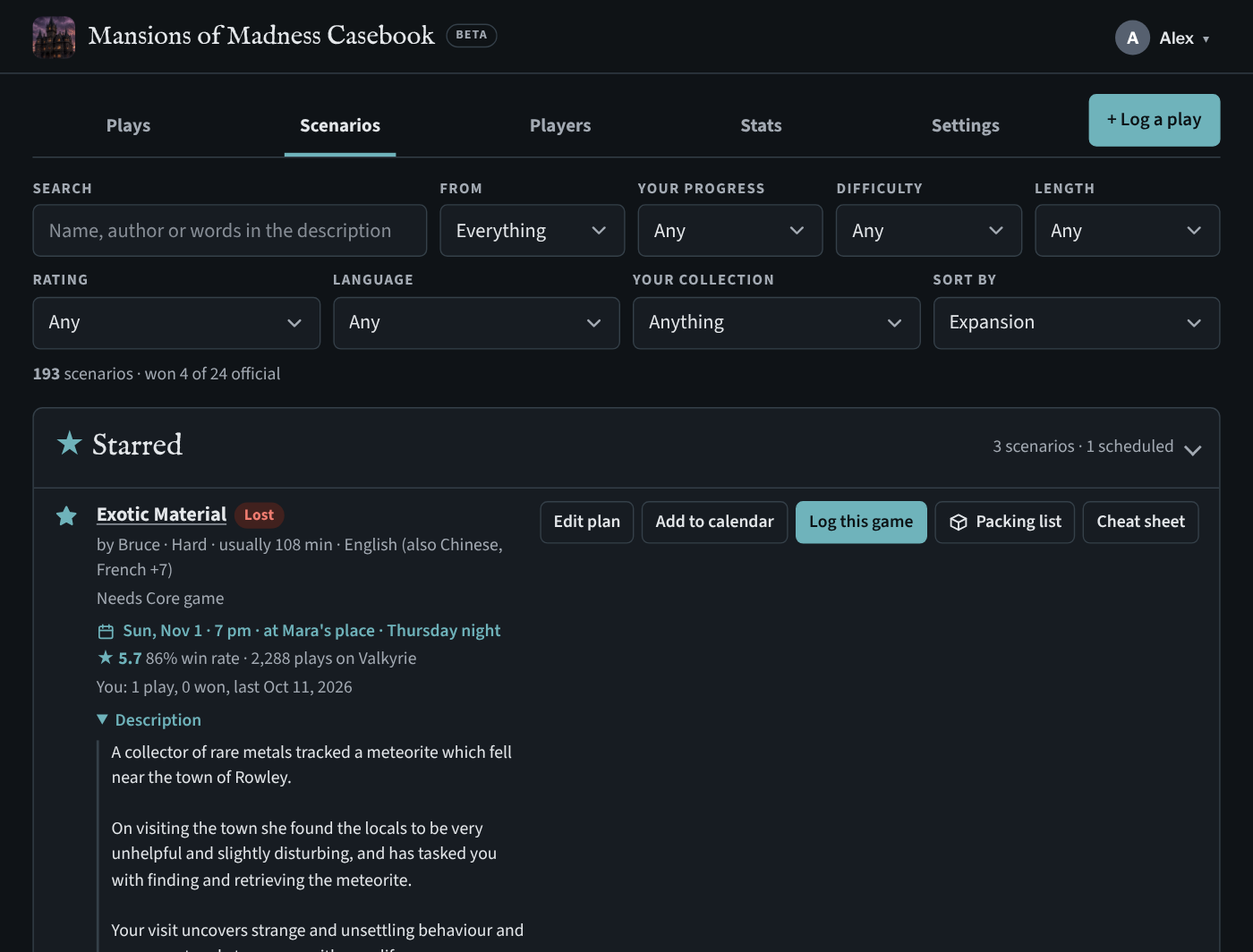
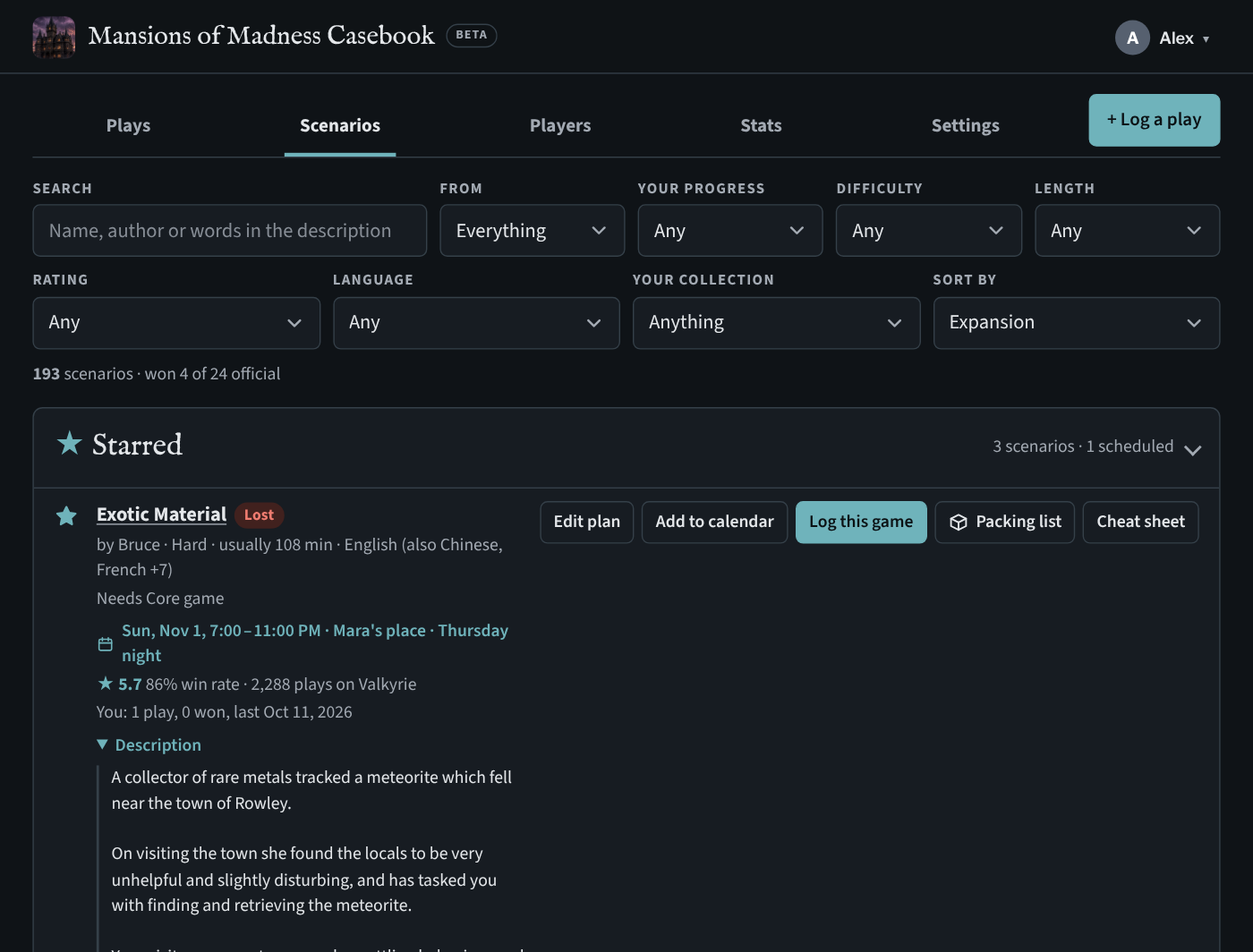
Next game laid out like the Arkham site's next session: countdown, when and where, calendar and Change, who's playing (v93)
Countdown (Today, Tomorrow, in 3 days, Happening now) kept current; date and
time with an end time from the new optional Length; an address gets
Directions and Food nearby; Add to calendar gains Outlook and matches the
Arkham menu; the cast shows as portraits with names. On phones the schedule
dialog keeps date with time, place with length, and each player beside their
investigator, and the calendar menu stays on screen.

Claude-Session: https://claude.ai/code/session_019kh66ouXYwNDK6aTZ456xr

Changed region(s): [[0.0614, 0.6513, 0.43, 1.0]]

diff --git a/js/app.js b/js/app.js
@@ -198,8 +198,17 @@ function playsHtml(){
     sel('fsc',t('Scenario'),ui.scen,[['',t('Any')]].concat(Object.keys(scs).sort(function(a,b){return scs[a].localeCompare(scs[b]);}).map(function(k){return [k,scs[k]];})))+'</div>';
   // the next scheduled game, if any
   var np=nextPlan();
-  if(np)h='<section class="sec nextup"><div class="grow"><span class="lbl">'+t('Next game')+'</span><b>'+esc(scName(np.sc.id,np.sc.name))+'</b><span class="note">'+esc(planText(np.plan))+'</span></div>'+
-    '<div class="row tight"><button class="btn sm" data-a="plan" data-sc="'+esc(np.id)+'">'+t('Edit')+'</button><span class="placewrap"><button class="btn sm" data-a="calmenu" data-sc="'+esc(np.id)+'">'+t('Add to calendar')+'</button></span>'+(packOf(np.sc)?'<button class="btn sm" data-a="pack" data-sc="'+esc(np.id)+'">'+ICON_BOX+t('Packing list')+'</button>':'')+(planHasCast(np.plan)?'<button class="btn sm" data-a="cheat" data-sc="'+esc(np.id)+'">'+t('Cheat sheet')+'</button>':'')+'<button class="btn sm pri" data-a="logplan" data-sc="'+esc(np.id)+'">'+t('Log this game')+'</button></div></section>'+h;
+  if(np){var pl=np.plan,g=groups.filter(function(x){return x.id===pl.groupId;})[0];
+    h='<section class="sec nextup">'+
+      '<div class="nu-top"><div class="grow"><span class="lbl">'+t('Next game')+' · '+planRelHtml(pl)+'</span>'+
+        '<span class="nu-when">'+esc(planWhen(pl))+'</span>'+
+        ((pl.location||g)?'<span class="nu-where">'+[pl.location?placeHtml(pl.location):'',g?esc(g.name):''].filter(Boolean).join(' · ')+'</span>':'')+'</div>'+
+        '<div class="row tight"><span class="placewrap"><button class="btn sm" data-a="calmenu" data-sc="'+esc(np.id)+'" aria-haspopup="true">'+t('Add to calendar')+'<span class="placecaret" aria-hidden="true">▾</span></button></span>'+
+        '<button class="btn sm" data-a="plan" data-sc="'+esc(np.id)+'">'+t('Change')+'</button></div></div>'+
+      '<div class="nu-game"><h3>'+esc(scName(np.sc.id,np.sc.name))+'</h3>'+(pl.note?'<p class="note">'+esc(pl.note)+'</p>':'')+castHtml(pl)+'</div>'+
+      '<div class="row tight nu-acts">'+(packOf(np.sc)?'<button class="btn sm" data-a="pack" data-sc="'+esc(np.id)+'">'+ICON_BOX+t('Packing list')+'</button>':'')+
+        (planHasCast(pl)?'<button class="btn sm" data-a="cheat" data-sc="'+esc(np.id)+'">'+t('Cheat sheet')+'</button>':'')+
+        '<button class="btn sm pri" data-a="logplan" data-sc="'+esc(np.id)+'">'+t('Log this game')+'</button></div></section>'+h;}
   if(probs.length)h='<section class="sec notice" role="status"><div class="grow"><b>'+t('Some investigator names aren’t official ones')+'</b><span class="note">'+tn('{n} name ({names}) needs matching to an official investigator.','{n} names ({names}) need matching to an official investigator.',probs.length,{names:probs.slice(0,3).map(function(x){return '“'+esc(x.text)+'”';}).join(', ')+(probs.length>3?'…':'')})+'</span></div><button class="btn pri" data-a="fixinv">'+t('Fix them')+'</button></section>'+h;
   if(sprobs.length)h='<section class="sec notice" role="status"><div class="grow"><b>'+tn('{n} play isn’t matched to an official or Valkyrie scenario','{n} plays aren’t matched to an official or Valkyrie scenario',sprobs.length)+'</b><span class="note">'+t('Every play needs a real scenario. Pick the right one for each name; good guesses are filled in.')+'</span></div><button class="btn pri" data-a="fixsc">'+t('Match them')+'</button></section>'+h;
   var any=ui.q||ui.result||ui.player||ui.scen;
@@ -357,8 +366,50 @@ function fmtTime(hm){if(!hm)return '';var h=+hm.slice(0,2),mi=hm.slice(3,5);
   if(I18N.lang!=='en'){var d=new Date(2000,0,1,h,+mi);try{return d.toLocaleTimeString(I18N.locale,{hour:'2-digit',minute:'2-digit'});}catch(e){return hm;}}
   return ((h%12)||12)+(mi!=='00'?':'+mi:'')+(h<12?' am':' pm');}
 function planText(pl){
-  var d=new Date(pl.date+'T12:00:00'),g=groups.filter(function(x){return x.id===pl.groupId;})[0];
-  return [isNaN(d)?pl.date:d.toLocaleDateString(I18N.locale, {weekday:'short',month:'short',day:'numeric'}),fmtTime(pl.time),pl.location?t('at {place}',{place:placeName(pl.location)}):'',g?g.name:''].filter(Boolean).join(' · ');
+  var g=groups.filter(function(x){return x.id===pl.groupId;})[0];
+  return [planWhen(pl),pl.location?placeName(pl.location):'',g?g.name:''].filter(Boolean).join(' · ');
+}
+// ---- a scheduled game's date and place, written the way the Arkham Horror RPG Ledger writes its next session ----
+function planStart(pl){return new Date(pl.date+'T'+(pl.time||'12:00')+':00');}
+function planHours(pl,sc){var h=Number(pl&&pl.hours);if(h>=1&&h<=12)return h;var m=sc?typicalMins(sc):0;return m?Math.max(1,Math.round(m/30)/2):4;}
+// "Sun, Nov 1, 7:00 – 11:00 PM" with a time and a length, "Sun, Nov 1, 7:00 PM" with only a time, "Sun, Nov 1" without
+function planWhen(pl){
+  var s=planStart(pl);if(isNaN(s))return pl.date||'';
+  var day={weekday:'short',month:'short',day:'numeric'};if(!pl.time)return s.toLocaleDateString(I18N.locale,day);
+  var full={weekday:'short',month:'short',day:'numeric',hour:'numeric',minute:'2-digit'},h=Number(pl.hours);
+  if(h>=1&&h<=12){try{var f=new Intl.DateTimeFormat(I18N.locale,full);if(f.formatRange)return f.formatRange(s,new Date(s.getTime()+h*3600000));}catch(e){}}
+  return s.toLocaleString(I18N.locale,full);
+}
+// "Today", "Tomorrow", "in 3 days", or "Happening now" once it has started (for its length, or 4 hours)
+function planRel(pl){
+  var now=new Date(),s=planStart(pl);if(isNaN(s))return '';
+  if(pl.time&&now>=s&&now<new Date(s.getTime()+planHours(pl)*3600000))return t('Happening now');
+  var d0=new Date(now.getFullYear(),now.getMonth(),now.getDate()),d1=new Date(s.getFullYear(),s.getMonth(),s.getDate()),n=Math.round((d1-d0)/864e5);
+  return n<=0?t('Today'):n===1?t('Tomorrow'):tn('in {n} day','in {n} days',n);
+}
+function planRelHtml(pl){return '<span data-pcd="'+esc(pl.date)+'" data-pct="'+esc(pl.time||'')+'" data-pch="'+esc(pl.hours||'')+'">'+esc(planRel(pl))+'</span>';}
+setInterval(function(){document.querySelectorAll('[data-pcd]').forEach(function(el){el.textContent=planRel({date:el.dataset.pcd,time:el.dataset.pct,hours:el.dataset.pch});});},60000);
+// a place that looks like an address (a number or a comma, so not "Mara's place") gets Directions and Food nearby
+function mapsHref(w){w=String(w||'').trim();return w&&/[0-9,]/.test(w)&&!/^https?:/i.test(w)?'https://www.google.com/maps/dir/?api=1&destination='+encodeURIComponent(w):'';}
+function placeHtml(w){
+  w=placeName(w);var d=mapsHref(w);if(!d)return esc(w);
+  var food='https://www.google.com/maps/search/?api=1&query='+encodeURIComponent(t('restaurants near {place}',{place:w}));
+  return '<span class="placewrap"><button type="button" class="placelink" data-placemenu aria-haspopup="true" aria-expanded="false">'+esc(w)+'<span class="placecaret" aria-hidden="true">▾</span></button>'+
+    '<span class="calmenu left" role="menu" hidden><a role="menuitem" href="'+esc(d)+'" target="_blank" rel="noopener">'+t('Directions')+'</a><a role="menuitem" href="'+esc(food)+'" target="_blank" rel="noopener">'+t('Food nearby')+'</a></span></span>';
+}
+document.addEventListener('click',function(ev){
+  var b=ev.target.closest&&ev.target.closest('[data-placemenu]');
+  document.querySelectorAll('[data-placemenu]+.calmenu').forEach(function(m){if(!b||m!==b.nextElementSibling){m.hidden=true;m.previousElementSibling.setAttribute('aria-expanded','false');}});
+  if(b){ev.preventDefault();var m=b.nextElementSibling;m.hidden=!m.hidden;b.setAttribute('aria-expanded',String(!m.hidden));}
+});
+// the Length choice in the schedule dialog, as on the Arkham site
+function hoursSelect(h){h=Number(h);var o='<option value="">'+t('Not set')+'</option>';for(var i=1;i<=8;i++)o+='<option value="'+i+'"'+(i===h?' selected':'')+'>'+tn('{n} hour','{n} hours',i)+'</option>';
+  return '<label class="field"><span class="lbl">'+t('Length (optional)')+'</span><select class="f" name="phours">'+o+'</select></label>';}
+// who's down to play, as a strip of their investigators' portraits (or initials) with names
+function castHtml(pl){
+  var cast=planParty(pl).filter(function(x){return x.player||x.investigator;});if(!cast.length)return '';
+  return '<ul class="nu-cast">'+cast.map(function(x){var inv=x.investigator&&MOM.isInvestigator(x.investigator)?x.investigator:'';
+    return '<li>'+(inv?'<img src="'+invImg(inv,'face')+'" alt="" width="160" height="160">':avatarHtml(x.player||'?','',''))+'<span><b>'+esc(x.player||t('No player yet'))+'</b>'+(inv?'<small>'+esc(inv)+'</small>':'')+'</span></li>';}).join('')+'</ul>';
 }
 // The next scheduled game today or later, for the Plays tab.
 function nextPlan(){var td=today(),m=starredMap(),best=null;
@@ -373,9 +424,9 @@ function planHasCast(pl){return !!(pl&&pl.party&&pl.party.some(function(x){retur
 function planDialog(id){
   var sc=scenById(id),cur=(starredMap()[id]||{}).plan||{};if(!sc)return;
   var d=openDialog('<form class="stack"><div class="dlg-head"><h2>'+t('Schedule: {name}',{name:esc(scName(sc.id,sc.name))})+'</h2><button class="x" type="button" data-close aria-label="'+t('Close')+'">×</button></div>'+
-    '<div class="grid2"><label class="field"><span class="lbl">'+t('Date')+'</span><input class="f" type="date" name="pdate" required min="'+today()+'" value="'+esc(cur.date||'')+'"></label>'+
+    '<div class="grid2 keep"><label class="field"><span class="lbl">'+t('Date')+'</span><input class="f" type="date" name="pdate" required min="'+today()+'" value="'+esc(cur.date||'')+'"></label>'+
     '<label class="field"><span class="lbl">'+t('Time (optional)')+'</span><input class="f" type="time" name="ptime" value="'+esc(cur.time||'')+'"></label></div>'+
-    '<div class="field"><label class="lbl" for="f-ploc">'+t('Where (optional)')+'</label>'+placeCombo('ploc',cur.location).replace('name="ploc"','name="ploc" id="f-ploc"')+'</div>'+
+    '<div class="grid2 keep plan-where"><div class="field"><label class="lbl" for="f-ploc">'+t('Where (optional)')+'</label>'+placeCombo('ploc',cur.location).replace('name="ploc"','name="ploc" id="f-ploc"')+'</div>'+hoursSelect(cur.hours)+'</div>'+
     seatsHtml(planParty(cur),t('Who’s playing (optional)'))+
     '<p class="note">'+t('Pick everyone’s investigator now to print a cheat sheet of who plays whom and their abilities.')+'</p>'+
     '<label class="field"><span class="lbl">'+t('Note (optional)')+'</span><input class="f" name="pnote" maxlength="200" value="'+esc(cur.note||'')+'" placeholder="'+t('e.g. bring snacks, use modified rules')+'"></label>'+
@@ -383,13 +434,13 @@ function planDialog(id){
   var f=d.querySelector('form');wireSeats(f);
   var put=function(plan){var m={},c=starredMap();for(var k in c)m[k]=c[k];m[id]={at:(m[id]&&m[id].at)||Date.now()};if(plan)m[id].plan=plan;d.close();saveStarred(m);};
   f.addEventListener('submit',function(e){e.preventDefault();
-    put({date:f.pdate.value,time:f.ptime.value||'',location:placeName(f.ploc.value).slice(0,60),groupId:f.dataset.group||cur.groupId||'',party:readSeats(f),note:f.pnote.value.trim().slice(0,200)});toast(t('Scheduled.'));});
+    put({date:f.pdate.value,time:f.ptime.value||'',location:placeName(f.ploc.value).slice(0,60),groupId:f.dataset.group||cur.groupId||'',hours:Number(f.phours.value)||0,party:readSeats(f),note:f.pnote.value.trim().slice(0,200)});toast(t('Scheduled.'));});
   var un=f.querySelector('[data-unplan]');if(un)un.addEventListener('click',function(){put(null);toast(t('Date removed; still starred.'));});
 }
 // Calendar: a Google Calendar link, or an .ics file for Apple Calendar and Outlook. Length from how long the scenario usually takes.
 function calEvent(id){
   var sc=scenById(id),pl=(starredMap()[id]||{}).plan;if(!sc||!pl)return null;
-  var mins=Math.round((typicalMins(sc)||180)/30)*30||180,g=groups.filter(function(x){return x.id===pl.groupId;})[0];
+  var mins=planHours(pl,sc)*60,g=groups.filter(function(x){return x.id===pl.groupId;})[0];
   var who=pl.party&&pl.party.length?pl.party.map(function(x){return x.player;}).filter(function(x,i,a){return x&&a.indexOf(x)===i;}).join(', '):g?groupMembers(g).map(function(x){return x.name;}).join(', '):'';
   var details=['Mansions of Madness: '+sc.name+(sc.type==='valkyrie'?' (Valkyrie)':''),who?t('Players: {names}',{names:who}):'',pl.note||'',t('Logged with Mansions of Madness Casebook')].filter(Boolean).join('\n');
   var p2=function(n){return ('0'+n).slice(-2);},stamp=function(dt){return dt.getFullYear()+p2(dt.getMonth()+1)+p2(dt.getDate())+'T'+p2(dt.getHours())+p2(dt.getMinutes())+'00';};
@@ -400,6 +451,9 @@ function calEvent(id){
 }
 function googleCal(ev){var tz='';try{tz=Intl.DateTimeFormat().resolvedOptions().timeZone;}catch(e){}
   return 'https://calendar.google.com/calendar/render?action=TEMPLATE&text='+encodeURIComponent(ev.title)+'&dates='+ev.start+'/'+ev.end+'&details='+encodeURIComponent(ev.details)+(ev.location?'&location='+encodeURIComponent(ev.location):'')+(tz&&!ev.allDay?'&ctz='+encodeURIComponent(tz):'');}
+function outlookCal(ev){
+  var iso=function(s){return ev.allDay?s.slice(0,4)+'-'+s.slice(4,6)+'-'+s.slice(6,8):s.slice(0,4)+'-'+s.slice(4,6)+'-'+s.slice(6,8)+'T'+s.slice(9,11)+':'+s.slice(11,13)+':00';};
+  return 'https://outlook.live.com/calendar/0/deeplink/compose?path=%2Fcalendar%2Faction%2Fcompose&rru=addevent&subject='+encodeURIComponent(ev.title)+'&startdt='+encodeURIComponent(iso(ev.start))+'&enddt='+encodeURIComponent(iso(ev.end))+(ev.allDay?'&allday=true':'')+'&body='+encodeURIComponent(ev.details)+(ev.location?'&location='+encodeURIComponent(ev.location):'');}
 function icsText(ev){var x=function(t){return String(t).replace(/\\/g,'\\\\').replace(/;/g,'\\;').replace(/,/g,'\\,').replace(/\n/g,'\\n');};
   var now=new Date(),z=function(n){return ('0'+n).slice(-2);},ds=now.getUTCFullYear()+z(now.getUTCMonth()+1)+z(now.getUTCDate())+'T'+z(now.getUTCHours())+z(now.getUTCMinutes())+z(now.getUTCSeconds())+'Z';
   return ['BEGIN:VCALENDAR','VERSION:2.0','PRODID:-//Mansions of Madness Casebook//EN','CALSCALE:GREGORIAN','BEGIN:VEVENT','UID:'+ev.uid,'DTSTAMP:'+ds,
@@ -407,9 +461,12 @@ function icsText(ev){var x=function(t){return String(t).replace(/\\/g,'\\\\').re
 function calMenu(btn){
   var ev=calEvent(btn.dataset.sc);if(!ev)return;var old=document.querySelector('.calmenu');if(old){old.remove();if(old.dataset.for===btn.dataset.sc)return;}
   var m=document.createElement('span');m.className='calmenu';m.dataset.for=btn.dataset.sc;m.setAttribute('role','menu');
-  m.innerHTML='<a role="menuitem" href="'+esc(googleCal(ev))+'" target="_blank" rel="noopener">Google Calendar</a><button role="menuitem" type="button" data-ics>'+t('Apple Calendar or Outlook (.ics)')+'</button>';
+  m.innerHTML='<a role="menuitem" href="'+esc(googleCal(ev))+'" target="_blank" rel="noopener">Google Calendar</a><button role="menuitem" type="button" data-ics>'+t('Apple Calendar (iPhone, Mac)')+'</button>'+
+    '<a role="menuitem" href="'+esc(outlookCal(ev))+'" target="_blank" rel="noopener">Outlook</a><button role="menuitem" type="button" data-ics>'+t('Download file (.ics)')+'</button>';
   btn.parentNode.appendChild(m);
-  m.querySelector('[data-ics]').addEventListener('click',function(){download(MOM.slug(ev.title)+'.ics',icsText(ev),'text/calendar');m.remove();});
+  // on screen whatever the button's place: hang it from the button's left edge if it would run off the left
+  var r=m.getBoundingClientRect();if(r.left<8){m.style.right='auto';m.style.left='0';}
+  m.querySelectorAll('[data-ics]').forEach(function(b){b.addEventListener('click',function(){download(MOM.slug(ev.title)+'.ics',icsText(ev),'text/calendar');m.remove();});});
   setTimeout(function(){document.addEventListener('click',function off(e){if(!m.contains(e.target)&&e.target!==btn){m.remove();document.removeEventListener('click',off);}});},0);
 }
 // Log a planned game: the form opens with the scenario, the group's players, the place and the date; saving it takes the scenario off the starred list.

diff --git a/css/app.css b/css/app.css
@@ -67,7 +67,9 @@ main{flex:1;width:100%;max-width:980px;margin:0 auto;padding:16px 16px 56px;disp
 .stack{display:flex;flex-direction:column;gap:14px}
 .grow{flex:1;min-width:0}
 .grid2{display:grid;grid-template-columns:repeat(2,minmax(0,1fr));gap:12px}
-@media (max-width:520px){.grid2{grid-template-columns:1fr}}
+@media (max-width:520px){.grid2:not(.keep){grid-template-columns:1fr}}
+/* where a pair belongs together (date and time; where and how long) it stays a pair on phones */
+.grid2.plan-where{grid-template-columns:minmax(0,3fr) minmax(0,2fr)}
 .lbl{font-size:12px;letter-spacing:.08em;text-transform:uppercase;color:var(--muted);font-weight:700}
 .field{display:flex;flex-direction:column;gap:4px;min-width:0;margin:0;border:0;padding:0}
 .field legend{padding:0;margin-bottom:6px}
@@ -301,7 +303,8 @@ html.embed main{padding-top:4px}
 .dlg .steps{padding-left:20px;display:flex;flex-direction:column;gap:6px}
 .seats{display:flex;flex-direction:column;gap:8px}
 .seat{display:grid;grid-template-columns:1fr 1fr 40px;gap:8px;align-items:center}
-@media (max-width:420px){.seat{grid-template-columns:1fr 40px}.seat [name=pi]{grid-column:1;grid-row:2}.seat .x{grid-row:1/3;grid-column:2}}
+/* phones: player and investigator stay side by side, a little tighter */
+@media (max-width:420px){.seat{grid-template-columns:minmax(0,1fr) minmax(0,1fr) 30px;gap:6px}.seat .f{padding-left:10px;padding-right:26px;background-position:right 9px center}.seat .x{width:30px}}
 .newsc{border-left:3px solid var(--accent);padding-left:12px}
 
 .toast{position:fixed;left:50%;transform:translateX(-50%);bottom:calc(24px + env(safe-area-inset-bottom,0px));background:var(--ink);color:var(--bg);padding:10px 16px;border-radius:8px;z-index:30;font-weight:600;max-width:calc(100% - 32px)}
@@ -383,9 +386,6 @@ details.pbox>.plays{margin:12px 16px 16px}
 .calmenu{position:absolute;right:0;top:calc(100% + 4px);z-index:8;min-width:230px;background:var(--surface);border:1px solid var(--line);border-radius:8px;box-shadow:0 10px 30px rgba(0,0,0,.2);display:flex;flex-direction:column;padding:6px}
 .calmenu a,.calmenu button{border:0;background:none;text-align:left;padding:9px 10px;border-radius:6px;font-weight:600;font-size:14px;text-decoration:none;cursor:pointer;color:var(--ink)}
 .calmenu a:hover,.calmenu button:hover{background:var(--surface2)}
-.sec.nextup{flex-direction:row;align-items:center;flex-wrap:wrap;gap:12px;border-left:4px solid var(--accent)}
-.sec.nextup .grow{display:flex;flex-direction:column;gap:2px;min-width:200px}
-.sec.nextup b{font-family:var(--display);font-weight:400;font-size:21px}
 details[data-box=starred]>summary h2::before{content:"\2605  ";color:var(--accent)}
 
 /* keep scenario names readable: the buttons wrap below the text before squeezing it */
@@ -596,3 +596,26 @@ button.ipill:focus-visible{outline:2px solid var(--focus);outline-offset:2px}
   #printarea .ch-ab{font-size:13pt;margin:2px 0 0}
   #printarea *{-webkit-print-color-adjust:exact;print-color-adjust:exact}
 }
+/* the next game on the Plays tab, laid out like the Arkham Horror RPG Ledger's next session: countdown, when and where,
+   calendar and Change at the top; then the scenario, who's playing, and what to do about it */
+.sec.nextup{gap:12px}
+.nu-top{display:flex;flex-wrap:wrap;align-items:flex-start;gap:10px}
+.nu-top .grow{display:flex;flex-direction:column;gap:3px;flex:1;min-width:200px}
+.nu-top .lbl [data-pcd]{color:var(--accent)}
+.nu-when{font-size:18px;font-weight:700;line-height:1.25}
+.nu-where{color:var(--muted);font-size:15px}
+.nu-game{display:flex;flex-direction:column;gap:6px;padding-top:12px;border-top:1px solid var(--line)}
+.nu-game h3{margin:0;font-family:var(--display);font-weight:400;font-size:24px;line-height:1.15}
+.nu-game .note{margin:0}
+.nu-cast{list-style:none;margin:4px 0 0;padding:0;display:flex;flex-wrap:wrap;gap:8px}
+.nu-cast li{display:flex;align-items:center;gap:8px;padding:4px 12px 4px 4px;border-radius:999px;background:var(--surface2)}
+.nu-cast img,.nu-cast .avatar{width:34px;height:34px;border-radius:50%;object-fit:cover;flex:none}
+.nu-cast span{display:flex;flex-direction:column;line-height:1.15}
+.nu-cast b{font-size:14px}
+.nu-cast small{font-size:12px;color:var(--muted)}
+.nu-acts .btn.pri{margin-left:auto}
+.placecaret{margin-left:4px;font-size:.8em}
+.placelink{border:0;background:none;padding:0;font:inherit;color:inherit;text-decoration:underline;text-decoration-color:var(--line);text-underline-offset:3px;cursor:pointer}
+.calmenu.left{right:auto;left:0}
+.calmenu[hidden]{display:none}
+@media (max-width:520px){.nu-acts .btn.pri{margin-left:0;flex:1 1 100%}.nu-top>.row{width:100%}}

diff --git a/test/ui.test.js b/test/ui.test.js
@@ -412,12 +412,12 @@ const gviz={status:'ok',table:{cols:rows[0].map(l=>({label:l})),rows:rows.slice(
   await p.emulateMedia({media:'print'});await p.pdf({path:out+'/5l-cheat-sheet.pdf',format:'Letter',printBackground:true});await p.emulateMedia({media:'screen'});
   await p.evaluate(()=>window.dispatchEvent(new Event('afterprint')));assert.strictEqual(await p.locator('#printarea').count(),0,'tidied up after printing');
   await p.keyboard.press('Escape');
-  assert.ok(/7 pm/.test(await p.textContent('details[data-box=starred] .plan')),'plan shows the time');
+  assert.ok(/7:00\s?PM/i.test(await p.textContent('details[data-box=starred] .plan')),'plan shows the time');
   await p.screenshot({path:out+'/5j-starred.png'});
   // calendar: Google link and .ics
   await p.locator('details[data-box=starred] [data-a=calmenu]').click();
   const gurl=await p.getAttribute('.calmenu a','href');assert.ok(gurl.includes('calendar.google.com')&&gurl.includes(tomorrow.replace(/-/g,'')+'T190000'),'Google Calendar link');
-  const [ics]=await Promise.all([p.waitForEvent('download'),p.click('.calmenu [data-ics]')]);
+  const [ics]=await Promise.all([p.waitForEvent('download'),p.locator('.calmenu [data-ics]').first().click()]);
   const icsTxt=fs.readFileSync(await ics.path(),'utf8');assert.ok(/BEGIN:VEVENT/.test(icsTxt)&&/DTSTART:\d{8}T190000/.test(icsTxt)&&/Shattered Bonds/.test(icsTxt),'ics file');
   // next game on the Plays tab
   await p.click('[data-t=plays]');assert.ok(await p.locator('.nextup:has-text("Shattered Bonds")').count(),'next game card');
@@ -428,6 +428,7 @@ const gviz={status:'ok',table:{cols:rows[0].map(l=>({label:l})),rows:rows.slice(
   // log it: filled in from the plan; afterwards it's off the starred list
   await p.locator('.nextup [data-a=logplan]').click();await p.waitForSelector('form[data-form=play]');
   assert.strictEqual(await p.inputValue('select[name=sc]'),'o-shattered-bonds');
+  await p.waitForFunction(()=>document.querySelector('input[name=loc]').value==="Gerri's house",null,{timeout:3000}).catch(()=>{});
   assert.strictEqual(await p.inputValue('input[name=loc]'),"Gerri's house");
   assert.strictEqual(await p.locator('.seat').count(),4,'seats from the plan');
   assert.strictEqual(await p.locator('.seat').nth(0).locator('[name=pi]').inputValue(),'Carson Sinclair','with the investigators picked for game night');

diff --git a/js/lang/fr.js b/js/lang/fr.js
@@ -196,6 +196,19 @@ I18N.add('fr',[
 [`Investigator cards © Fantasy Flight Games.`,`Cartes d’investigateur © Fantasy Flight Games.`],
 [`Print`,`Imprimer`],
 [`Print or share`,`Imprimer ou partager`],
+[`Happening now`,`En ce moment`],
+[`Directions`,`Itinéraire`],
+[`Food nearby`,`Où manger à côté`],
+[`Not set`,`Non défini`],
+[`Length (optional)`,`Durée (facultatif)`],
+[`Apple Calendar (iPhone, Mac)`,`Calendrier Apple (iPhone, Mac)`],
+[`Download file (.ics)`,`Télécharger le fichier (.ics)`],
+[`restaurants near {place}`,`restaurants près de {place}`],
+[`{n} hours`,{one:`{n} heure`,other:`{n} heures`}],
+[`Change`,`Modifier`],
+[`Today`,`Aujourd’hui`],
+[`Tomorrow`,`Demain`],
+[`in {n} days`,{one:`dans {n} jour`,other:`dans {n} jours`}],
 [`Back to the casebook`,`Retour au carnet`],
 [`Opens your phone’s share options: Print, Save Image, or send it to the group.`,`Ouvre les options de partage du téléphone : Imprimer, Enregistrer l’image ou l’envoyer au groupe.`],
 [`Press and hold the picture to print, save or share it.`,`Appuyez longuement sur l’image pour l’imprimer, l’enregistrer ou la partager.`],
@@ -228,7 +241,6 @@ I18N.add('fr',[
 [`Date removed; still starred.`,`Date retirée ; toujours en favori.`],
 [`Players: {names}`,`Joueurs : {names}`],
 [`Logged with Mansions of Madness Casebook`,`Noté avec Mansions of Madness Casebook`],
-[`Apple Calendar or Outlook (.ics)`,`Calendrier Apple ou Outlook (.ics)`],
 [`Not from a Fantasy Flight box`,`Ne vient pas d’une boîte Fantasy Flight`],
 [`Fan`,`Fan`],
 [`fan-made tile`,`tuile faite par des fans`],

diff --git a/js/lang/pl.js b/js/lang/pl.js
@@ -197,6 +197,19 @@ I18N.add('pl',[
 [`Investigator cards © Fantasy Flight Games.`,`Karty badaczy © Fantasy Flight Games.`],
 [`Print`,`Drukuj`],
 [`Print or share`,`Drukuj lub udostępnij`],
+[`Happening now`,`Właśnie trwa`],
+[`Directions`,`Dojazd`],
+[`Food nearby`,`Jedzenie w pobliżu`],
+[`Not set`,`Nie ustawiono`],
+[`Length (optional)`,`Czas trwania (opcjonalnie)`],
+[`Apple Calendar (iPhone, Mac)`,`Kalendarz Apple (iPhone, Mac)`],
+[`Download file (.ics)`,`Pobierz plik (.ics)`],
+[`restaurants near {place}`,`restauracje w pobliżu: {place}`],
+[`{n} hours`,{one:`{n} godzina`,few:`{n} godziny`,many:`{n} godzin`,other:`{n} godzin`}],
+[`Change`,`Zmień`],
+[`Today`,`Dziś`],
+[`Tomorrow`,`Jutro`],
+[`in {n} days`,{one:`za {n} dzień`,few:`za {n} dni`,many:`za {n} dni`,other:`za {n} dnia`}],
 [`Back to the casebook`,`Wróć do dziennika`],
 [`Opens your phone’s share options: Print, Save Image, or send it to the group.`,`Otwiera opcje udostępniania telefonu: Drukuj, Zapisz obrazek albo wyślij go grupie.`],
 [`Press and hold the picture to print, save or share it.`,`Przytrzymaj obrazek, aby go wydrukować, zapisać lub udostępnić.`],
@@ -229,7 +242,6 @@ I18N.add('pl',[
 [`Date removed; still starred.`,`Usunięto datę; nadal w ulubionych.`],
 [`Players: {names}`,`Gracze: {names}`],
 [`Logged with Mansions of Madness Casebook`,`Zapisane w Mansions of Madness Casebook`],
-[`Apple Calendar or Outlook (.ics)`,`Kalendarz Apple lub Outlook (.ics)`],
 [`Not from a Fantasy Flight box`,`Nie pochodzi z pudełka Fantasy Flight`],
 [`Fan`,`Fan`],
 [`fan-made tile`,`kafelek fanowski`],

diff --git a/js/lang/pt.js b/js/lang/pt.js
@@ -196,6 +196,19 @@ I18N.add('pt',[
 [`Investigator cards © Fantasy Flight Games.`,`Cartas de investigador © Fantasy Flight Games.`],
 [`Print`,`Imprimir`],
 [`Print or share`,`Imprimir ou compartilhar`],
+[`Happening now`,`Acontecendo agora`],
+[`Directions`,`Como chegar`],
+[`Food nearby`,`Comida por perto`],
+[`Not set`,`Não definido`],
+[`Length (optional)`,`Duração (opcional)`],
+[`Apple Calendar (iPhone, Mac)`,`Calendário da Apple (iPhone, Mac)`],
+[`Download file (.ics)`,`Baixar arquivo (.ics)`],
+[`restaurants near {place}`,`restaurantes perto de {place}`],
+[`{n} hours`,{one:`{n} hora`,other:`{n} horas`}],
+[`Change`,`Mudar`],
+[`Today`,`Hoje`],
+[`Tomorrow`,`Amanhã`],
+[`in {n} days`,{one:`em {n} dia`,other:`em {n} dias`}],
 [`Back to the casebook`,`Voltar ao caderno`],
 [`Opens your phone’s share options: Print, Save Image, or send it to the group.`,`Abre as opções de compartilhar do celular: Imprimir, Salvar imagem ou enviar para o grupo.`],
 [`Press and hold the picture to print, save or share it.`,`Toque e segure a imagem para imprimir, salvar ou compartilhar.`],
@@ -228,7 +241,6 @@ I18N.add('pt',[
 [`Date removed; still starred.`,`Data removida; continua nos favoritos.`],
 [`Players: {names}`,`Jogadores: {names}`],
 [`Logged with Mansions of Madness Casebook`,`Registrado com o Mansions of Madness Casebook`],
-[`Apple Calendar or Outlook (.ics)`,`Calendário da Apple ou Outlook (.ics)`],
 [`Not from a Fantasy Flight box`,`Não é de uma caixa da Fantasy Flight`],
 [`Fan`,`Fã`],
 [`fan-made tile`,`peça de mapa feita por fãs`],

diff --git a/js/lang/ca.js b/js/lang/ca.js
@@ -196,6 +196,19 @@ I18N.add('ca',[
 [`Investigator cards © Fantasy Flight Games.`,`Cartes d’investigador © Fantasy Flight Games.`],
 [`Print`,`Imprimeix`],
 [`Print or share`,`Imprimeix o comparteix`],
+[`Happening now`,`Ara mateix`],
+[`Directions`,`Com arribar-hi`],
+[`Food nearby`,`Menjar a prop`],
+[`Not set`,`Sense definir`],
+[`Length (optional)`,`Durada (opcional)`],
+[`Apple Calendar (iPhone, Mac)`,`Calendari d'Apple (iPhone, Mac)`],
+[`Download file (.ics)`,`Baixa el fitxer (.ics)`],
+[`restaurants near {place}`,`restaurants a prop de {place}`],
+[`{n} hours`,{one:`{n} hora`,other:`{n} hores`}],
+[`Change`,`Canvia`],
+[`Today`,`Avui`],
+[`Tomorrow`,`Demà`],
+[`in {n} days`,{one:`d’aquí a {n} dia`,other:`d’aquí a {n} dies`}],
 [`Back to the casebook`,`Torna al quadern`],
 [`Opens your phone’s share options: Print, Save Image, or send it to the group.`,`Obre les opcions de compartir del mòbil: Imprimeix, Desa la imatge o envia-la al grup.`],
 [`Press and hold the picture to print, save or share it.`,`Mantén premuda la imatge per imprimir-la, desar-la o compartir-la.`],
@@ -228,7 +241,6 @@ I18N.add('ca',[
 [`Date removed; still starred.`,`Data treta; continua als preferits.`],
 [`Players: {names}`,`Jugadors: {names}`],
 [`Logged with Mansions of Madness Casebook`,`Registrat amb Mansions of Madness Casebook`],
-[`Apple Calendar or Outlook (.ics)`,`Calendari d'Apple o Outlook (.ics)`],
 [`Not from a Fantasy Flight box`,`No és d'una capsa de Fantasy Flight`],
 [`Fan`,`Fan`],
 [`fan-made tile`,`rajola feta per aficionats`],

diff --git a/js/lang/es.js b/js/lang/es.js
@@ -196,6 +196,19 @@ I18N.add('es',[
 [`Investigator cards © Fantasy Flight Games.`,`Cartas de investigador © Fantasy Flight Games.`],
 [`Print`,`Imprimir`],
 [`Print or share`,`Imprimir o compartir`],
+[`Happening now`,`Ahora mismo`],
+[`Directions`,`Cómo llegar`],
+[`Food nearby`,`Comida cerca`],
+[`Not set`,`Sin definir`],
+[`Length (optional)`,`Duración (opcional)`],
+[`Apple Calendar (iPhone, Mac)`,`Calendario de Apple (iPhone, Mac)`],
+[`Download file (.ics)`,`Descargar archivo (.ics)`],
+[`restaurants near {place}`,`restaurantes cerca de {place}`],
+[`{n} hours`,{one:`{n} hora`,other:`{n} horas`}],
+[`Change`,`Cambiar`],
+[`Today`,`Hoy`],
+[`Tomorrow`,`Mañana`],
+[`in {n} days`,{one:`en {n} día`,other:`en {n} días`}],
 [`Back to the casebook`,`Volver al cuaderno`],
 [`Opens your phone’s share options: Print, Save Image, or send it to the group.`,`Abre las opciones de compartir del móvil: Imprimir, Guardar imagen o enviarla al grupo.`],
 [`Press and hold the picture to print, save or share it.`,`Mantén pulsada la imagen para imprimirla, guardarla o compartirla.`],
@@ -228,7 +241,6 @@ I18N.add('es',[
 [`Date removed; still starred.`,`Fecha quitada; sigue en favoritos.`],
 [`Players: {names}`,`Jugadores: {names}`],
 [`Logged with Mansions of Madness Casebook`,`Registrado con Mansions of Madness Casebook`],
-[`Apple Calendar or Outlook (.ics)`,`Calendario de Apple u Outlook (.ics)`],
 [`Not from a Fantasy Flight box`,`No es de una caja de Fantasy Flight`],
 [`Fan`,`Fan`],
 [`fan-made tile`,`loseta hecha por fans`],

diff --git a/js/demo.js b/js/demo.js
@@ -11,7 +11,7 @@
   docs[P]={name:'Alex',email:'',created:now-90*864e5,lastSeen:now,playCount:0,
     owned:['core','dlc','rn','sm','btt','soa','sot','hj','pots'],
     starred:{
-      'v-exotic-material':{at:now-5*864e5,plan:{date:day(3),time:'19:00',location:THU,groupId:'thursday',note:t('Bring snacks'),party:[{player:'Alex',investigator:'Agatha Crane'},{player:'Mara',investigator:'Rita Young'},{player:'Theo',investigator:'Joe Diamond'},{player:'Jules',investigator:'Father Mateo'}]}},
+      'v-exotic-material':{at:now-5*864e5,plan:{date:day(3),time:'19:00',hours:4,location:THU,groupId:'thursday',note:t('Bring snacks'),party:[{player:'Alex',investigator:'Agatha Crane'},{player:'Mara',investigator:'Rita Young'},{player:'Theo',investigator:'Joe Diamond'},{player:'Jules',investigator:'Father Mateo'}]}},
       'o-hidden-depths':{at:now-9*864e5},
       'o-the-twilight-diadem':{at:now-20*864e5}
     }};

diff --git a/js/version.js b/js/version.js
@@ -1,3 +1,3 @@
 /* The one place the version lives. Bump it with every change (see CLAUDE.md): every page's footer and the
    account menu show it, and the offline cache in sw.js is named after it, so a bump also refreshes installed apps. */
-self.APP_VERSION='v92';
+self.APP_VERSION='v93';

diff --git a/README.md b/README.md
@@ -19,7 +19,7 @@ This repo is the code behind the live site. It isn't packaged for running your o
 - **Official investigators only.** Each seat picks from the 40 Second Edition investigators (grouped by box) or Unknown; custom characters can't be saved, and the database rules enforce it. Imports map names like "Tommy" or "Ashcan Pete" to the official ones and leave anything else as Unknown (noted on the play). If older plays hold a non-official name, the Plays tab offers **Fix them**, with each name pre-matched to its official investigator.
 - **Scenarios.** All 24 official app scenarios (grouped by the product that unlocks them) and the 169 Valkyrie fan scenarios from the Valkyrie app's own catalogue, in collapsible **Official** and **Valkyrie** boxes (open or closed is remembered), each marked Won, Lost or Not played. Tick the products you own in Settings, where the Valkyrie list can be switched off too (ones you've played still show). Search by name, author or description; filter by source, your progress, difficulty, length, rating, language (Valkyrie scenarios list their original language and translations) and your collection (**Playable with what I own**); sort by expansion (official scenarios grouped under the core game or the expansion that unlocks them), name, highest rated, most played, shortest, longest, easiest, hardest, easiest to win, language or most recently played. Each shows its difficulty, the author's description for Valkyrie scenarios and a short spoiler-free premise for official ones (written for this site from linked sources, in `js/official-info.js`; search covers both), typical length (Valkyrie players' real average where known), the Valkyrie players' average score out of 10, win rate and play count, your own record, and any published reviews (`js/reviews.js`: hand-collected, linked and summarized in our own words). Difficulty, length and rating aren't published for the official scenarios, so those filters only cover Valkyrie ones.
 - **Where you played.** An optional location on each play (a new play starts empty). Clicking the box lists every place you've played or scheduled a game, once each, with a tick on the one chosen; typing narrows the list, and a phone gets its own picker with **Somewhere new…**. Different spellings of the same place (case, curly or straight apostrophes, extra spaces) count as one place: it's suggested, shown, counted in Stats and saved in its usual spelling. A phone's curly apostrophe is saved as the plain one a computer types, and plays saved earlier with another spelling are rewritten in the usual one automatically when the casebook loads. **Settings → Places** lists them all; **Rename** changes a place in every play and scheduled game, and giving it the name of another place merges the two. Rules work the same way, with **Other rules…** on a phone.
-- **Starred and scheduled.** Star scenarios you want to play soon (the star is at the start of every scenario row); they gather in a **Starred** box at the top of the Scenarios tab. **Schedule** one with a date, optional time, place, who's playing and a note: pick each player and their investigator, or **Fill in from a group** (everyone gets their usual investigator); scheduled games sort first, show on the Plays tab as **Next game**, and can be added to Google Calendar or Apple Calendar/Outlook (.ics). **Log this game** opens the play form filled in from the plan (scenario, the group's players, place, date) and takes it off the starred list once saved.
+- **Starred and scheduled.** Star scenarios you want to play soon (the star is at the start of every scenario row); they gather in a **Starred** box at the top of the Scenarios tab. **Schedule** one with a date, optional time, place, who's playing and a note: pick each player and their investigator, or **Fill in from a group** (everyone gets their usual investigator); scheduled games sort first and show on the Plays tab as **Next game**, laid out like the Arkham Horror RPG Ledger's next session: a countdown (Today, Tomorrow, in 3 days), the date and time (with an end time when a length is set), the place (an address gets Directions and Food nearby), **Add to calendar** (Google Calendar, Apple Calendar, Outlook or an .ics file) and **Change**; then the scenario, the note, who's playing with their investigators' portraits, and Packing list, Cheat sheet and Log this game. The schedule dialog has an optional **Length** like the Arkham site's. **Log this game** opens the play form filled in from the plan (scenario, the group's players, place, date) and takes it off the starred list once saved.
 - **Nothing lost by a stray tap.** Once you've typed or picked anything in a form (logging a play, a player, a group, a schedule, feedback), a click outside it, Escape, × or Cancel asks **Discard your changes?** first, with **Keep editing** as the default.
 - **Cheat sheet.** Once a scheduled game has its investigators picked, **Cheat sheet** (on the game in Starred and on **Next game**) shows a card for each seat: who's playing, their investigator and the investigator's special ability, with the die symbols drawn in. **Print** prints just the sheet, one wide card per seat on a light page, so the table can keep it handy and nobody forgets their special. On an iPhone or iPad, where web pages often can't print at all, **Print** opens the sheet on a page of its own (`print.html`) that turns it into a picture and offers **Print or share**: the phone's own share sheet, with Print, Save Image, or sending it to the group in Messages. **Back to the casebook** at the top closes that page again. Every dialog opens at its top on a phone, however tall it is. The card text is in English, as printed on the cards (`js/investigator-cards.js`).
 - **Play again.** Scenarios you've played show **Play again** (with a replay icon) instead of Log a play: the form opens with the same players, investigators, rules and place as last time, and the attempt number goes up after a loss.
